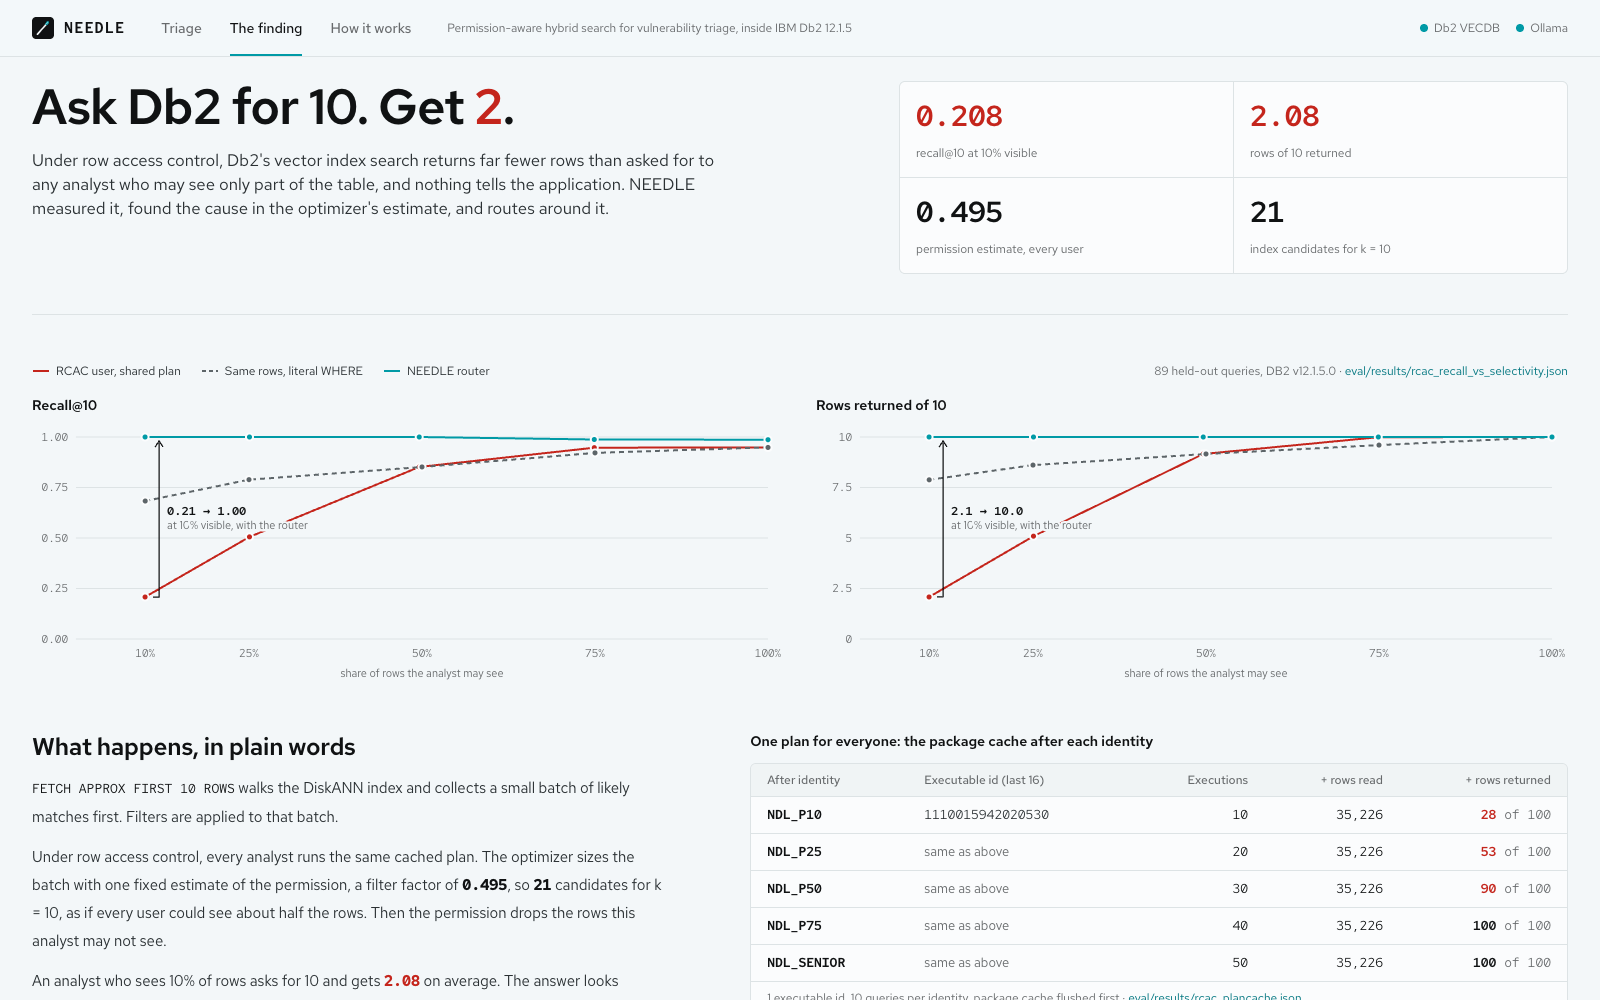
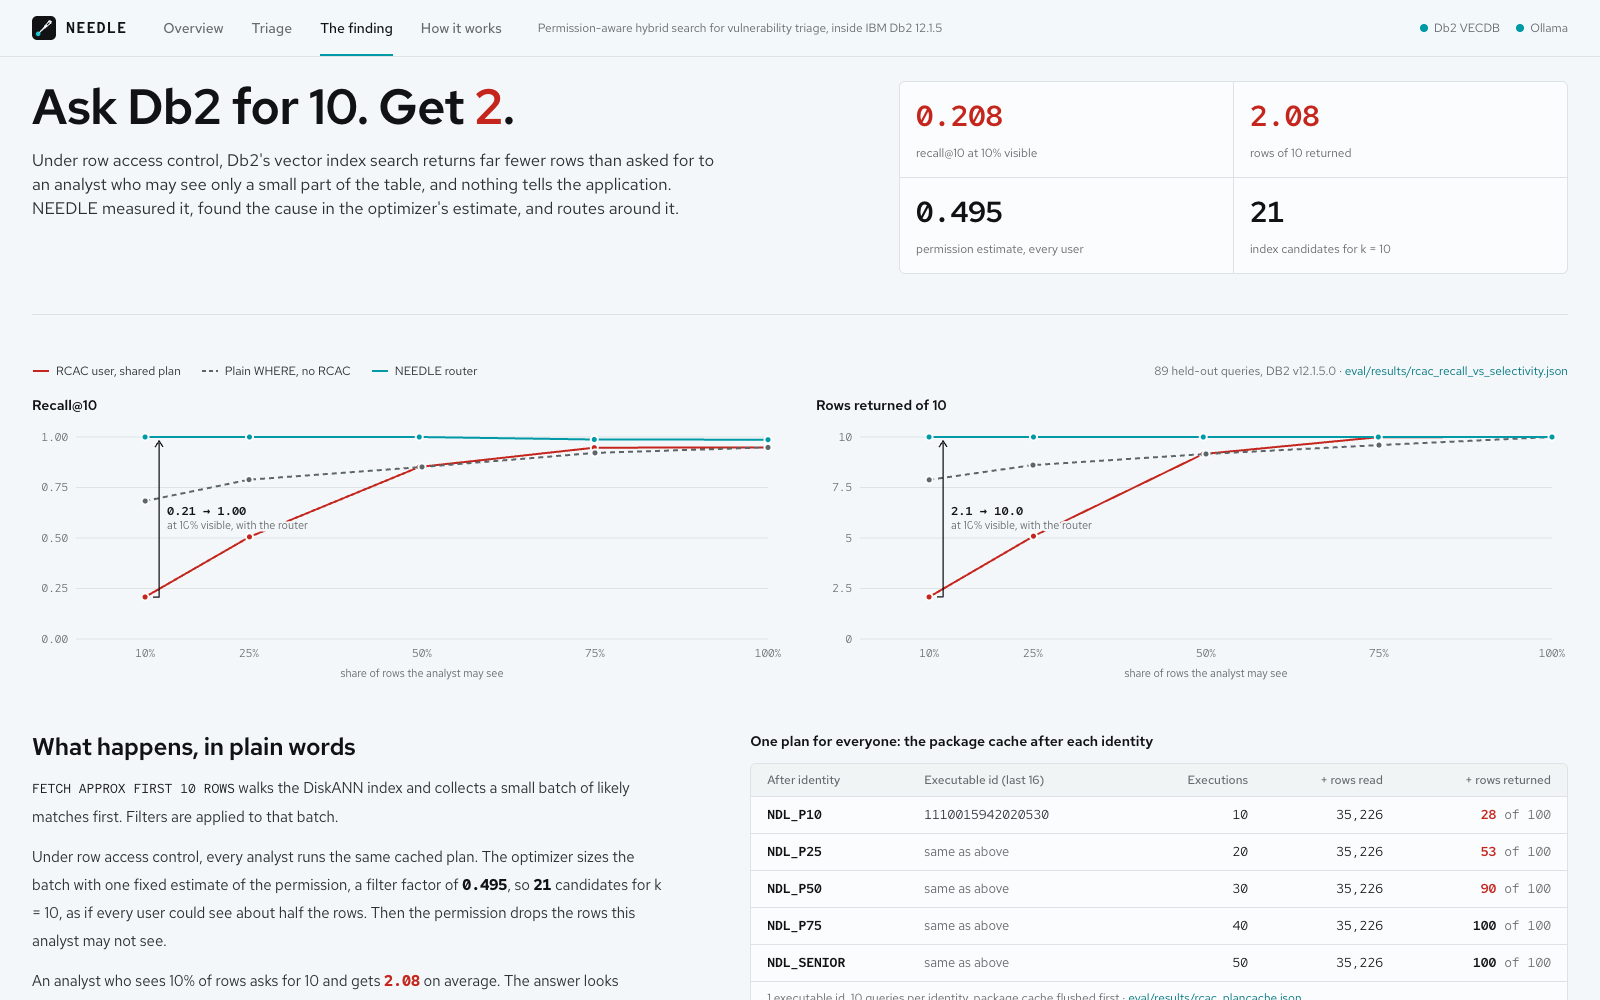
fix(needle-web): accuracy pass over every page; evidence-linked Measured table
- verified the landing page's 'Ask for 10. Get 2.' against Db2 itself (NDL_P10, shared plan: pyyaml 2 rows,
  flashpix 0; NDL_SENIOR 10): docs/evidence/hero_shared_plan_check.txt
- Finding: the literal-permission control (0.762 held-out, rcac_litcopy.json) separated from the plain WHERE
  without RCAC (0.683); chart legend 'Plain WHERE, no RCAC'; 'a small part of the table'
- landing/how: exposure is a second statement (no 'one statement does three jobs'); 'usually lands near';
  'a first batch of 21'; synthetic paraphrases
- How it works: Measured table from /api/stats (canonical eval run, rcac_posting_overhead.md, pytest.txt),
  one-decimal latencies as in the evidence, each row linked to its file
- full suite 192 passed, 3 skipped; re-captured 04/06

Claude-Session: https://claude.ai/code/session_01JC7SErLRmYWiEbxaXUyRXX

diff --git a/needle/web/src/views/HowItWorks.tsx b/needle/web/src/views/HowItWorks.tsx
@@ -1,4 +1,5 @@
-import { evidenceUrl } from "../api";
+import { useEffect, useState, type ReactNode } from "react";
+import { api, evidenceUrl, fmt, type Stats } from "../api";
 
 const LOCAL = [
   { name: "React UI", where: "127.0.0.1", says: "Sends your text and k. Holds no SQL and no credentials beyond a session token in memory." },
@@ -10,7 +11,7 @@ const DB2 = [
   { name: "Vector leg", sql: "ORDER BY VECTOR_DISTANCE(EMB, ?, COSINE)\nFETCH APPROX FIRST depth ROWS ONLY", says: "IXSCAN on the DiskANN index NEEDLE.ADV_DOC_VIX." },
   { name: "Keyword leg", sql: "NEEDLE.BM25_SEARCH(?)", says: "BM25 written in plain SQL over NEEDLE.POSTING, one LATERAL lookup per term." },
   { name: "Fusion", sql: "RANK() per leg, FULL OUTER JOIN\nRRF = Σ 1 / (60 + rank)", says: "Reciprocal rank fusion in the same statement." },
-  { name: "Exposure", sql: "SBOM_COMPONENT FOR BUSINESS_TIME\nAS OF CURRENT DATE", says: "Exact package and version join, plus the deploy history for \"since when\"." },
+  { name: "Exposure", sql: "SBOM_COMPONENT FOR BUSINESS_TIME\nAS OF CURRENT DATE", says: "A second statement, under the same permissions: exact package and version join, plus the deploy history for \"since when\"." },
 ];
 const FEATURES = [
   ["VECTOR(768, FLOAT32) + CREATE VECTOR INDEX", "DiskANN index, used by FETCH APPROX with a literal k"],
@@ -23,7 +24,7 @@ const FEATURES = [
 const EVIDENCE = [
   ["docs/evidence/rcac_real.md", "The finding: recall vs visibility, the shared plan, the router"],
   ["docs/evidence/g1_vector_index.md", "Access plans: IXSCAN on the vector index, and why k must be a literal"],
-  ["docs/evidence/eval_final.md", "Retrieval quality: hybrid vs vector vs BM25 on realistic paraphrases"],
+  ["docs/evidence/eval_final.md", "Retrieval quality: hybrid vs vector vs BM25 on synthetic paraphrases"],
   ["docs/evidence/rcac_posting_overhead.md", "The 9x RCAC slowdown in the keyword leg, and the LATERAL fix"],
   ["docs/evidence/triage_router_explain.md", "The router's depth per identity, with plans"],
   ["eval/results/rcac_recall_vs_selectivity.json", "The numbers behind the Finding charts"],
@@ -33,10 +34,10 @@ export default function HowItWorks() {
   return (
     <article className="grid gap-12">
       <header className="max-w-[72ch]">
-        <h1 className="text-3xl font-semibold tracking-[-0.02em]">One Db2 statement, on your own connection</h1>
+        <h1 className="text-3xl font-semibold tracking-[-0.02em]">Inside Db2, on your own connection</h1>
         <p className="mt-3 text-md text-ink-2">
-          Retrieval, permission and exposure all happen inside IBM Db2 12.1.5. The app on your machine embeds the text,
-          signs in as you, and shows what Db2 returned.
+          Retrieval, permission and exposure all happen inside IBM Db2 12.1.5: one statement ranks the advisories, a second
+          joins them to the deploy history. The app on your machine embeds the text, signs in as you, and shows what Db2 returned.
         </p>
       </header>
 
@@ -86,6 +87,8 @@ export default function HowItWorks() {
         </div>
       </section>
 
+      <Measured />
+
       <section className="grid gap-10 lg:grid-cols-2">
         <div>
           <h2 className="mb-3 text-xl font-semibold tracking-[-0.01em]">Db2 features in use</h2>
@@ -111,5 +114,55 @@ export default function HowItWorks() {
         </div>
       </section>
     </article>
+  );
+}
+
+const ms1 = (n: number) => `${n.toFixed(1)} ms`;
+
+function Measured() {
+  const [st, setSt] = useState<Stats | null>(null);
+  useEffect(() => { api.stats().then(setSt).catch(() => setSt(null)); }, []);
+  if (!st) return null;
+  const r = st.recall10, l = st.latency_ms, run = st.eval_run;
+  const rows: { what: string; value: ReactNode; how: string; file: string }[] = [
+    { what: "Recall@10 on paraphrased questions", how: `${run.per_slice} synthetic chat-style rewrites sharing no 6-word run with the advisory`,
+      value: <>hybrid <b>{fmt.dec(r.paraphrase.triage)}</b> · vector {fmt.dec(r.paraphrase.approx)} · keyword {fmt.dec(r.paraphrase.bm25)}</>, file: run.file },
+    { what: "Recall@10 on text copied from the advisory", how: `${run.per_slice} named and ${run.per_slice} masked questions: upper bounds, not the headline`,
+      value: <>named <b>{fmt.dec(r.named.triage)}</b> · masked <b>{fmt.dec(r.masked.triage)}</b></>, file: run.file },
+    { what: "One TRIAGE call (keyword + vector + fusion)", how: `p50 / p95 over ${run.queries} questions, as ${run.session_user}, row access control on`,
+      value: <><b>{ms1(l.triage_p50)}</b> / {ms1(l.triage_p95)}</>, file: run.file },
+    { what: "Vector leg: DiskANN index vs exact scan", how: "p50 per call; overlap of the two top-10 lists",
+      value: <><b>{ms1(l.approx_p50)}</b> vs {ms1(l.exact_p50)} · overlap {fmt.dec(st.ann_overlap10, 2)}</>, file: run.file },
+    ...(st.posting_fix ? [{ what: "Keyword leg under row access control", how: "BM25_SEARCH top 10, before and after the per-term LATERAL rewrite",
+      value: <>{ms1(st.posting_fix.before_ms)} → <b>{ms1(st.posting_fix.after_ms)}</b></>, file: st.posting_fix.file }] : []),
+    { what: "Embargoed advisories", how: "readable by the senior identity only; the junior identity never receives them",
+      value: <b>{fmt.int(st.embargoed_rows)}</b>, file: "docs/evidence/verify_db2.txt" },
+    ...(st.tests ? [{ what: "Tests", how: "unit, API and live-Db2 leak tests", value: <><b>{st.tests.passed}</b> passed, {st.tests.skipped} skipped</>, file: st.tests.file }] : []),
+  ];
+  return (
+    <section aria-labelledby="measured-title">
+      <h2 id="measured-title" className="mb-3 text-xl font-semibold tracking-[-0.01em]">Measured</h2>
+      <div className="panel overflow-x-auto">
+        <table className="w-full min-w-[760px] border-collapse text-sm">
+          <thead>
+            <tr className="border-b border-hair bg-surface/60 text-left text-xs text-mute">
+              <th className="px-4 py-2 font-medium">What</th><th className="px-4 py-2 font-medium">Result</th>
+              <th className="px-4 py-2 font-medium">How it was measured</th><th className="px-4 py-2 font-medium">Source</th>
+            </tr>
+          </thead>
+          <tbody>
+            {rows.map((x) => (
+              <tr key={x.what} className="border-b border-hair align-top last:border-b-0">
+                <td className="px-4 py-2.5 font-medium">{x.what}</td>
+                <td className="px-4 py-2.5 font-mono text-[13px] whitespace-nowrap num">{x.value}</td>
+                <td className="px-4 py-2.5 text-mute">{x.how}</td>
+                <td className="px-4 py-2.5"><a className="font-mono text-xs" href={evidenceUrl(x.file)} target="_blank" rel="noreferrer">{x.file.split("/").pop()}</a></td>
+              </tr>
+            ))}
+          </tbody>
+        </table>
+        <p className="border-t border-hair px-4 py-2 text-xs text-mute">Evaluation run {run.run_id} on Db2 12.1.5 with the full corpus. Read the paraphrase row first: it is the only slice without text copied from the right advisory.</p>
+      </div>
+    </section>
   );
 }

diff --git a/needle/web/src/views/Landing.tsx b/needle/web/src/views/Landing.tsx
@@ -15,7 +15,7 @@ export default function Landing() {
       <Hero />
       <div className="mx-auto max-w-[1600px] px-4 sm:px-6 lg:px-8">
         <section className="grid gap-8 border-b border-hair py-16 lg:grid-cols-[minmax(0,0.9fr)_minmax(0,1.1fr)] lg:gap-16 lg:py-24">
-          <h2 className="max-w-[16ch] font-display text-3xl font-semibold tracking-[-0.025em] sm:text-4xl">One statement does three jobs</h2>
+          <h2 className="max-w-[16ch] font-display text-3xl font-semibold tracking-[-0.025em] sm:text-4xl">Three Db2 features do the work</h2>
           <dl className="border-t border-hair">
             {STEPS.map((s) => (
               <div key={s.obj} className="grid gap-1 border-b border-hair py-5 sm:grid-cols-[250px_minmax(0,1fr)] sm:gap-8">
@@ -118,17 +118,17 @@ function Hero() {
   const batchVisible = query?.batch_visible_p10 ?? 0;
   const readout = !info || !query ? null
     : lens === "all" ? { n: "10 of 10", tone: "text-[#5fdbe3]", line: `All ${fmt.int(info.n)} public advisories visible. The 10 nearest to the question are lit.` }
-      : lens === "p10-shared" ? { n: `${batchVisible} of 10`, tone: "text-affected-ink", line: `The vector index fetches the ${info.batch} nearest, sized as if this analyst saw half the rows. The permission removes ${info.batch - batchVisible} (red). ${batchVisible} ${batchVisible === 1 ? "comes" : "come"} back.` }
+      : lens === "p10-shared" ? { n: `${batchVisible} of 10`, tone: "text-affected-ink", line: `The vector index fetches a first batch of ${info.batch}, sized as if this analyst saw half the rows. The permission removes ${info.batch - batchVisible} (red). ${batchVisible} ${batchVisible === 1 ? "comes" : "come"} back.` }
         : { n: "10 of 10", tone: "text-[#5fdbe3]", line: `NEEDLE counts the ${fmt.int(info.p10_visible)} rows this analyst may read and runs an exact scan over them instead.` };
 
   const sv = storyQuery?.batch_visible_p10 ?? 0;
   const chapters = !info ? [] : [
     { name: "The corpus", title: `${fmt.int(info.n)} advisories, placed by meaning`,
-      body: "Each point is a real Python security advisory. Points that sit close together mean similar things, so even a vague question lands next to the advisories it is about." },
+      body: "Each point is a real Python security advisory. Points that sit close together mean similar things, so even a vague question usually lands near the advisories it is about." },
     { name: "The search", title: "A question arrives",
       body: "The question becomes a vector. Db2's vector index walks its graph toward it, one neighbour at a time, and collects the nearest advisories. Keyword search runs in the same SQL statement." },
     { name: "The permission", title: `Ask for 10. Get ${sv}.`,
-      body: `An analyst who may read ${fmt.int(info.p10_visible)} advisories asks for 10. The shared plan fetches the ${info.batch} nearest as if everyone saw half the rows; row access control removes ${info.batch - sv} of them (red), and ${sv} ${sv === 1 ? "comes" : "come"} back.` },
+      body: `An analyst who may read ${fmt.int(info.p10_visible)} advisories asks for 10. The shared plan fetches a first batch of ${info.batch}, sized as if everyone saw half the rows; row access control removes ${info.batch - sv} of them (red), and ${sv} ${sv === 1 ? "comes" : "come"} back.` },
     { name: "The router", title: "Count first, then search",
       body: `NEEDLE counts the ${fmt.int(info.p10_visible)} rows this analyst may read, then runs an exact scan over them. 10 of 10 come back, and none from outside the permission.` },
   ];

diff --git a/needle/web/src/views/Finding.tsx b/needle/web/src/views/Finding.tsx
@@ -24,8 +24,8 @@ export default function FindingView({ session, demo }: { session: Session | null
             Ask Db2 for {k}. Get <span className="text-affected">{Math.round(p10.rows)}</span>.
           </h1>
           <p className="mt-4 max-w-[62ch] text-md text-ink-2">
-            Under row access control, Db2's vector index search returns far fewer rows than asked for to any analyst who
-            may see only part of the table, and nothing tells the application. NEEDLE measured it, found the cause in
+            Under row access control, Db2's vector index search returns far fewer rows than asked for to an analyst who
+            may see only a small part of the table, and nothing tells the application. NEEDLE measured it, found the cause in
             the optimizer's estimate, and routes around it.
           </p>
         </div>
@@ -66,8 +66,10 @@ export default function FindingView({ session, demo }: { session: Session | null
           </p>
           <p className="mt-3">
             An analyst who sees {Math.round(p10.x)}% of rows asks for {k} and gets <b className="font-mono text-affected">{fmt.dec(p10.rows, 2)}</b> on
-            average. The answer looks complete. Write the same permission as a literal <code className="font-mono text-[13px] text-ink">WHERE</code> and
-            the optimizer sees it: recall rises from {fmt.dec(p10.recall)} to {fmt.dec(p10w.recall)}.
+            average. The answer looks complete. Write the same permission with a literal value, still under row access
+            control, and the optimizer sees it: recall rises from {fmt.dec(p10.recall)} to{" "}
+            <b className="font-mono text-ink">{fmt.dec(f.literal_control.heldout_recall)}</b> on the same held-out queries. A plain{" "}
+            <code className="font-mono text-[13px] text-ink">WHERE</code> without row access control gets {fmt.dec(p10w.recall)}.
           </p>
           <p className="mt-3">
             So the cause is how visible the predicate is to the optimizer. It is a selectivity-estimation and filtered

diff --git a/needle/web/src/api.ts b/needle/web/src/api.ts
@@ -46,11 +46,20 @@ export interface Finding {
   selectivity: { split: string; n_queries: number; db2: string; series: { rcac: SeriesPoint[]; router: SeriesPoint[]; where: SeriesPoint[] } };
   estimate: { permission_ff: number; vector_ixscan_est_rows: number; srchlsiz: number; steps: string[]; same_estimate_every_step: boolean };
   correlated: { queries: number; p10_zero_rows: number; p10_recall_zero: number; coverage_by_p: Record<string, number> };
+  literal_control: { heldout_recall: number; all_recall: number; all_returned: number };
   plan_cache: {
     statement: string; order: string; distinct_executable_ids: number;
     steps: { user: string; cache_entries: number; executable_id: string; executions: number; rows_read: number; rows_returned: number; queries: number }[];
   };
   sources: Record<string, string>;
+}
+export interface Stats {
+  eval_run: { file: string; run_id: string; session_user: string; queries: number; per_slice: number };
+  recall10: Record<"named" | "masked" | "paraphrase", Record<"triage" | "approx" | "bm25" | "exact", number>>;
+  latency_ms: { triage_p50: number; triage_p95: number; approx_p50: number; exact_p50: number; embed_p50: number };
+  ann_overlap10: number; embargoed_rows: number;
+  posting_fix: { before_ms: number; after_ms: number; file: string } | null;
+  tests: { passed: number; skipped: number; file: string } | null;
 }
 export interface ExplainPlan { name: string; sql: string; explain_time: string | null; total_cost: number | null; uses_vector_index: boolean | null; plan: string }
 export interface CompareIdentity extends Partial<TriageResult> { user: string; role: string; embargoed_ids?: string[] }
@@ -92,6 +101,7 @@ export const api = {
   memo: (mode: Mode) => call<Memo>("/api/memo", { mode }),
   compare: (query: string, k: number) => call<Compare>("/api/compare", { query, k }),
   finding: () => call<Finding>("/api/finding"),
+  stats: () => call<Stats>("/api/stats"),
   explain: () => call<{ source: string; plans: ExplainPlan[] }>("/api/explain"),
 };
 

diff --git a/needle/web/src/components/RecallChart.tsx b/needle/web/src/components/RecallChart.tsx
@@ -6,7 +6,7 @@ import { fmt, type SeriesPoint } from "../api";
    direct-labelled, so identity never rests on colour alone. */
 export const SERIES = [
   { key: "rcac", label: "RCAC user, shared plan", color: "#c4251c", dash: undefined },
-  { key: "where", label: "Same rows, literal WHERE", color: "#5d6569", dash: "5 4" },
+  { key: "where", label: "Plain WHERE, no RCAC", color: "#5d6569", dash: "5 4" },
   { key: "router", label: "NEEDLE router", color: "#009aa6", dash: undefined },
 ] as const;
 type Key = (typeof SERIES)[number]["key"];

diff --git a/needle/src/needle/api.py b/needle/src/needle/api.py
@@ -357,6 +357,7 @@ def finding() -> dict:
     corr = _read_json("rcac_correlated.json")
     ff = _read_json("rcac_ffsource.json")
     pc = _read_json("rcac_plancache.json")
+    lit = _read_json("rcac_litcopy.json")["B_literal"]["approx10"]
     p10 = corr["measure"]["NDL_P10"]
     first = ff["steps"][0]
     fwd = next(r for r in pc["runs"] if r["order"] == "forward")
@@ -377,11 +378,51 @@ def finding() -> dict:
                        "p10_recall_zero": p10["approx10_recall_histogram"]["recall_0"],
                        "coverage_by_p": corr["build"]["coverage_by_p"]},
         "plan_cache": plan_cache,
+        "literal_control": {"heldout_recall": lit["heldout"]["recall_mean"], "all_recall": lit["all"]["recall_mean"],
+                            "all_returned": lit["all"]["returned_mean"]},
         "sources": {"selectivity": "eval/results/rcac_recall_vs_selectivity.json",
                     "plan_cache": "eval/results/rcac_plancache.json",
+                    "literal_control": "eval/results/rcac_litcopy.json",
                     "correlated": "eval/results/rcac_correlated.json",
                     "estimate": "eval/results/rcac_ffsource.json", "write_up": "docs/evidence/rcac_real.md"},
     }
+
+
+def _canonical_eval() -> tuple[str, dict]:
+    runs = sorted((ROOT / "eval" / "results").glob("2026*.json"))
+    for p in reversed(runs):
+        d = json.loads(p.read_text(encoding="utf-8"))
+        if d.get("canonical"):
+            return p.name, d
+    raise HTTPException(404, {"kind": "input", "message": "No canonical evaluation run in eval/results"})
+
+
+@app.get("/api/stats")
+def stats() -> dict:
+    """Measured numbers for the How-it-works page; each comes from a file in eval/results or docs/evidence."""
+    name, ev = _canonical_eval()
+    rel, fid = ev["relevance"], ev["ann_fidelity"]["approx_vs_exact"]["all"]
+    out = {
+        "eval_run": {"file": f"eval/results/{name}", "run_id": ev["run_id"], "session_user": ev["db"]["session_user"],
+                     "queries": rel["triage"]["all"]["n"], "per_slice": rel["triage"]["paraphrase"]["n"]},
+        "recall10": {s: {r: rel[r][s]["recall@10"] for r in ("triage", "approx", "bm25", "exact")}
+                     for s in ("named", "masked", "paraphrase")},
+        "latency_ms": {"triage_p50": rel["triage"]["all"]["latency_p50_ms"], "triage_p95": rel["triage"]["all"]["latency_p95_ms"],
+                       "approx_p50": rel["approx"]["all"]["latency_p50_ms"], "exact_p50": rel["exact"]["all"]["latency_p50_ms"],
+                       "embed_p50": ev["embedding"]["latency_p50_ms"]},
+        "ann_overlap10": fid["overlap@10_mean"],
+        "embargoed_rows": ev["embargo"]["embargoed_rows_visible_to_session_user"],
+        "posting_fix": None, "tests": None,
+    }
+    m = re.search(r"^\| NDL_SENIOR \| BM25_SEARCH top 10 \| ([\d.]+) / [\d.]+ \| ([\d.]+) / [\d.]+ \|",
+                  (ROOT / "docs" / "evidence" / "rcac_posting_overhead.md").read_text(encoding="utf-8"), re.M)
+    if m:
+        out["posting_fix"] = {"before_ms": float(m.group(1)), "after_ms": float(m.group(2)),
+                              "file": "docs/evidence/rcac_posting_overhead.md"}
+    t = re.search(r"(\d+) passed(?:, (\d+) skipped)?", (ROOT / "docs" / "evidence" / "pytest.txt").read_text(encoding="utf-8"))
+    if t:
+        out["tests"] = {"passed": int(t.group(1)), "skipped": int(t.group(2) or 0), "file": "docs/evidence/pytest.txt"}
+    return out
 
 
 _EXPLAIN_SECTIONS = ("APPROX_bound", "APPROX_k_param")

diff --git a/needle/tests/test_api.py b/needle/tests/test_api.py
@@ -182,6 +182,16 @@ def test_finding_numbers_come_from_the_evidence_files(client):
     assert round(f["estimate"]["permission_ff"], 3) == 0.495 and f["estimate"]["vector_ixscan_est_rows"] == 21.0
     assert f["correlated"]["p10_zero_rows"] == 130 and f["correlated"]["queries"] == 170
     assert f["plan_cache"]["distinct_executable_ids"] == 1 and len(f["plan_cache"]["steps"]) == 5
+    assert round(f["literal_control"]["all_recall"], 3) == 0.765
+
+
+def test_stats_come_from_the_canonical_run_and_evidence(client):
+    s = client.get("/api/stats").json()
+    assert s["eval_run"]["run_id"] == "20261110T024304Z" and s["eval_run"]["queries"] == 450
+    assert round(s["recall10"]["paraphrase"]["triage"], 3) == 0.453 and s["recall10"]["paraphrase"]["bm25"] == 0.34
+    assert s["latency_ms"]["triage_p50"] == 53.5
+    assert s["posting_fix"] == {"before_ms": 244.8, "after_ms": 27.2, "file": "docs/evidence/rcac_posting_overhead.md"}
+    assert s["tests"]["passed"] >= 175
 
 
 def test_explain_plans_parsed_from_evidence(client):
